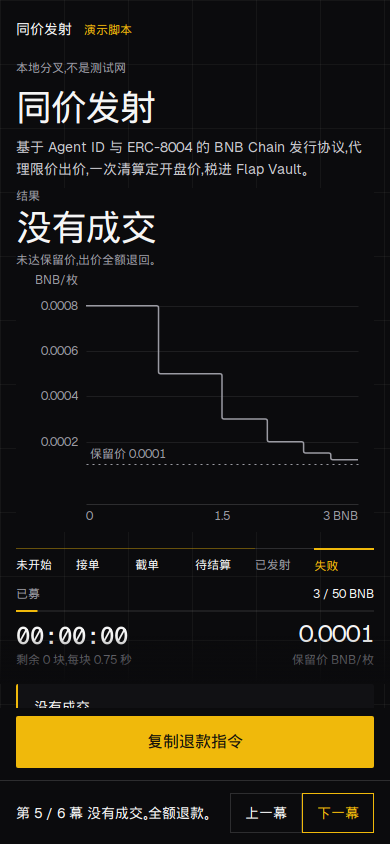
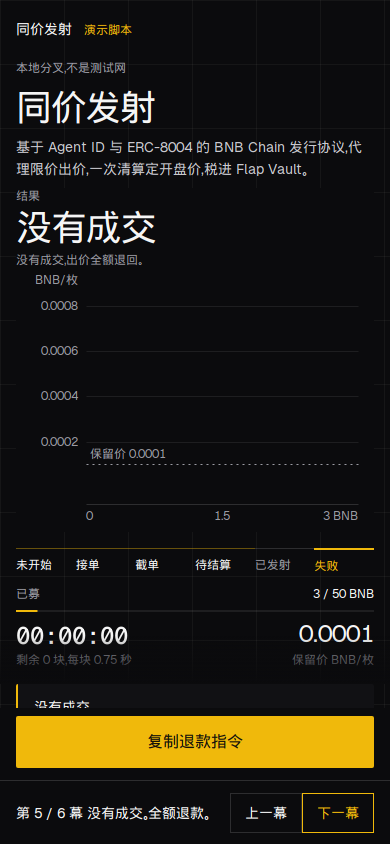
失败时只说没有成交、全额退回，不再误写成未达保留价。

diff --git a/web/src/App.tsx b/web/src/App.tsx
@@ -713,7 +713,7 @@ export function App() {
                     {phase === "failed" ? (
                       <div className="result-card">
                         <h2>没有成交</h2>
-                        <p className="help">未达保留价。出价按原数退回，退回后这一行会写成已退回。</p>
+                        <p className="help">出价按原数退回。退回后这一行会写成已退回。</p>
                       </div>
                     ) : phase === "done" ? (
                       <div className="result-card">
@@ -841,7 +841,7 @@ export function App() {
                   <div className={phase !== "wait" && clearingNow > 0n && !failed ? "chart-price" : "chart-price dim"}>
                     {failed ? "没有成交" : phase === "wait" ? "未形成" : clearingNow > 0n ? <Roller text={formatPrice(clearingNow)} /> : "未形成"}
                   </div>
-                  {failed && <p className="fail-line"><Zh text="未达保留价，出价全额退回。" /></p>}
+                  {failed && <p className="fail-line"><Zh text="没有成交，出价全额退回。" /></p>}
                   {clearingNow === 0n && snap.bids.length > 0 && !failed && phase !== "wait" && (
                     <p className="fail-line">已募还没到保留所需，清算价还没形成。</p>
                   )}

diff --git a/docs/work-log.md b/docs/work-log.md
@@ -35,3 +35,5 @@ Wed Nov 25 07:55:23 PM UTC 2026
 已发射回执加上金库余额。本机分叉的已发射池做了一笔买卖并分税，页面读到 0.0135 BNB。完整提走数额仍以端到端证据为准。
 Wed Nov 25 07:56:46 PM UTC 2026
 手机上的回执不再被拉成一整块。已发射幕在按钮上方另给一行金库余额，390 宽上沿 620、按钮上沿 716，不重叠。
+Wed Nov 25 07:57:16 PM UTC 2026
+失败文案不再写成未达保留价。入池不够和保留价不够都是没有成交、出价全额退回。代理的低于保留价说法和页面一致。
